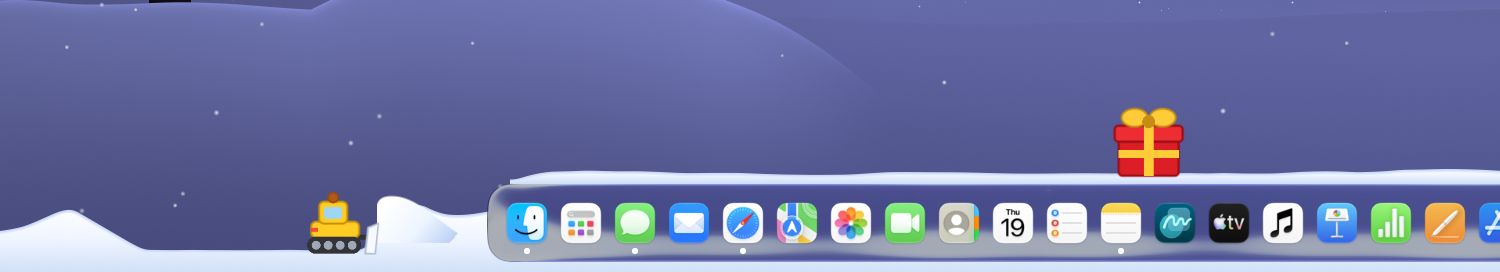
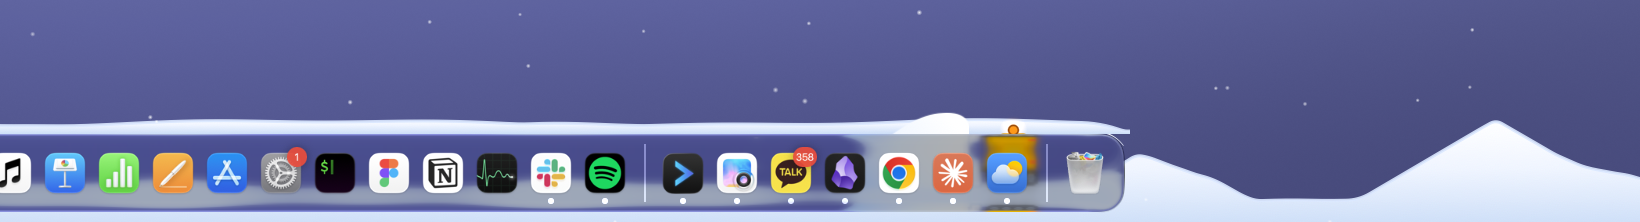
Recapture README images on a clean desktop (snowplow behind the Dock)

diff --git a/README.md b/README.md
@@ -52,7 +52,7 @@
 
 ### ⛄ 눈사람과 🚜 제설차
 
-<img src="docs/images/snowplow.png" width="100%" alt="바닥 눈을 미는 제설차와 Dock 위 선물">
+<img src="docs/images/snowplow.png" width="100%" alt="Dock 유리 뒤로 지나가며 눈을 미는 제설차">
 
 - **눈사람 만들기**: 바닥(또는 Dock 위) 눈을 클릭한 채 좌우로 끌면 눈덩이가 굴러가며 커져요. 작은 눈덩이를 큰 눈덩이 위에 놓으면 쌓입니다(최대 3단).
 - **꾸미기**: 2단 이상인 눈사람을 클릭하면 *Fashion week, but colder.* 패널이 열려요. 모자·얼굴·몸·옷을 골라 보세요.
